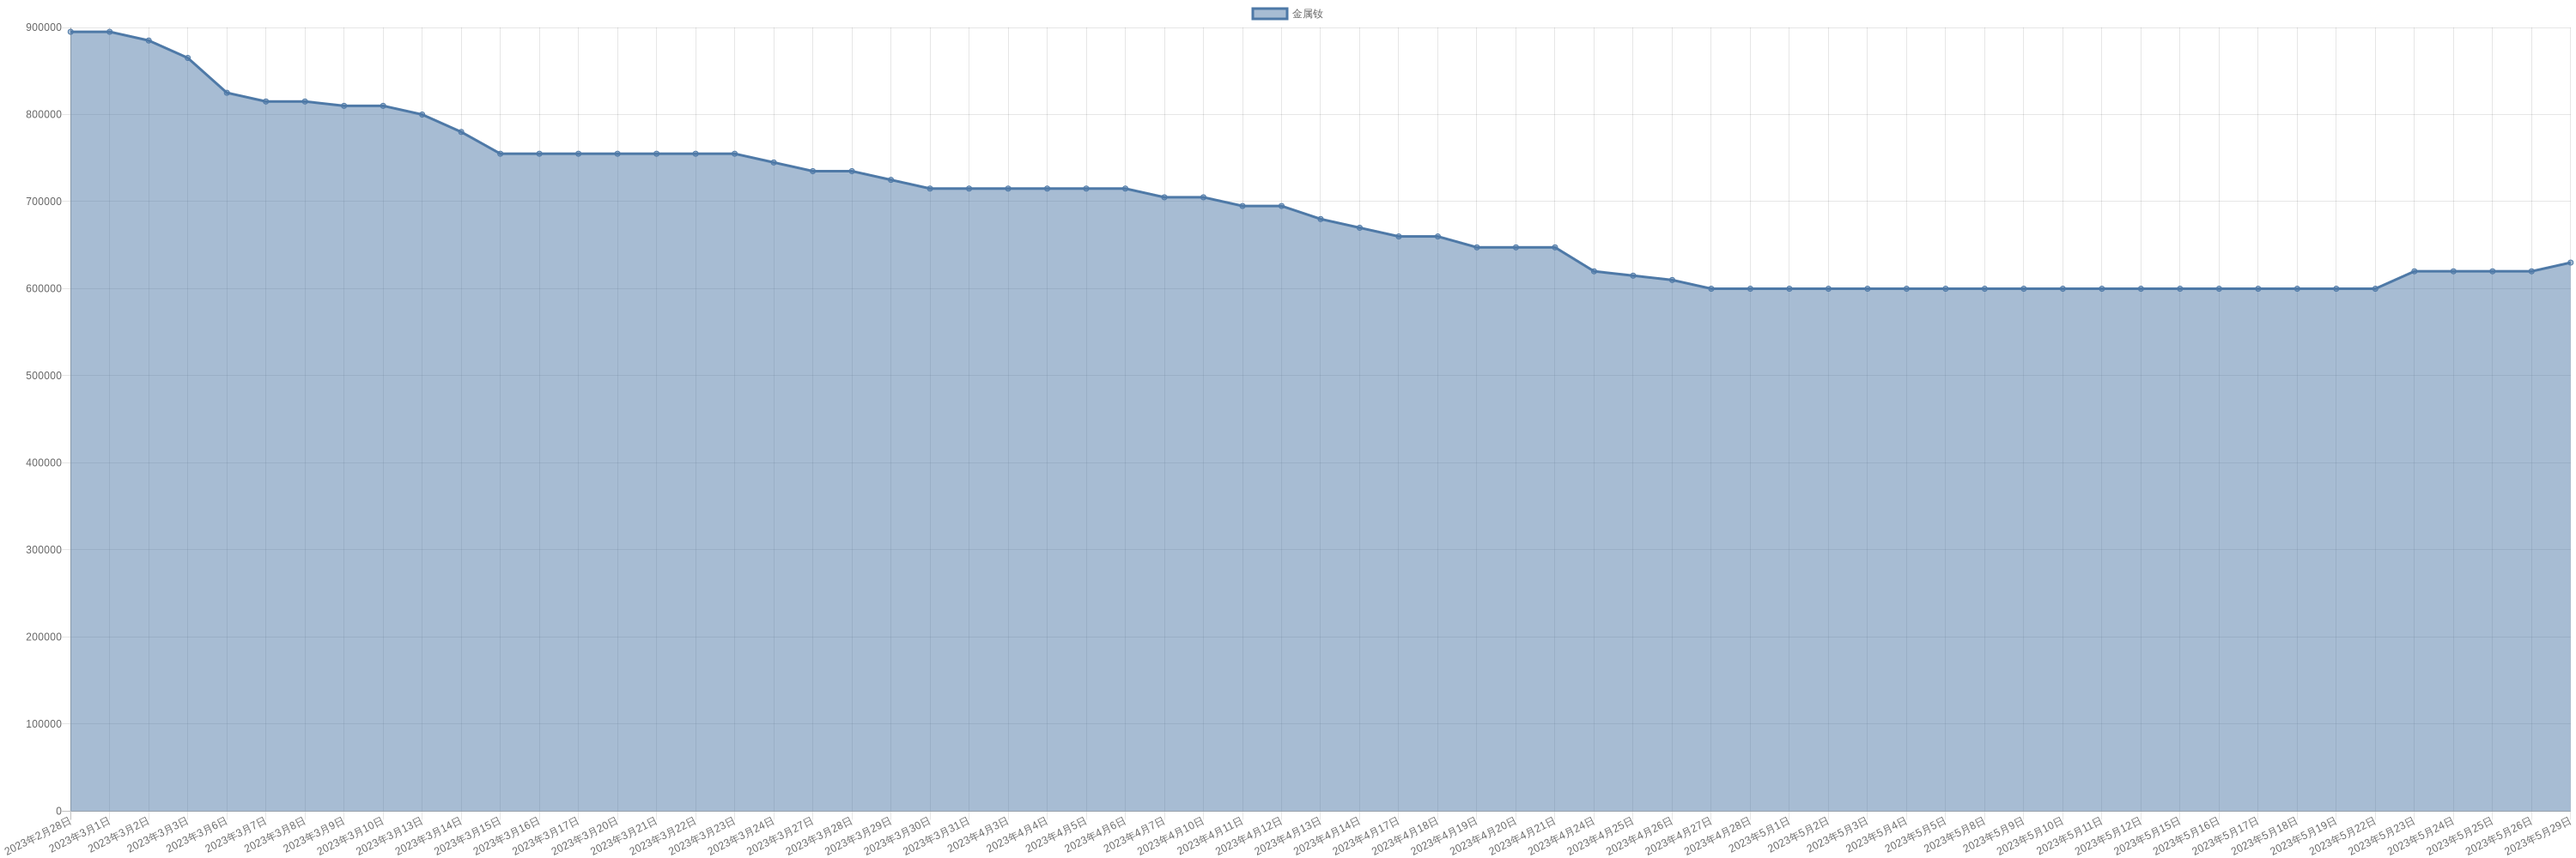
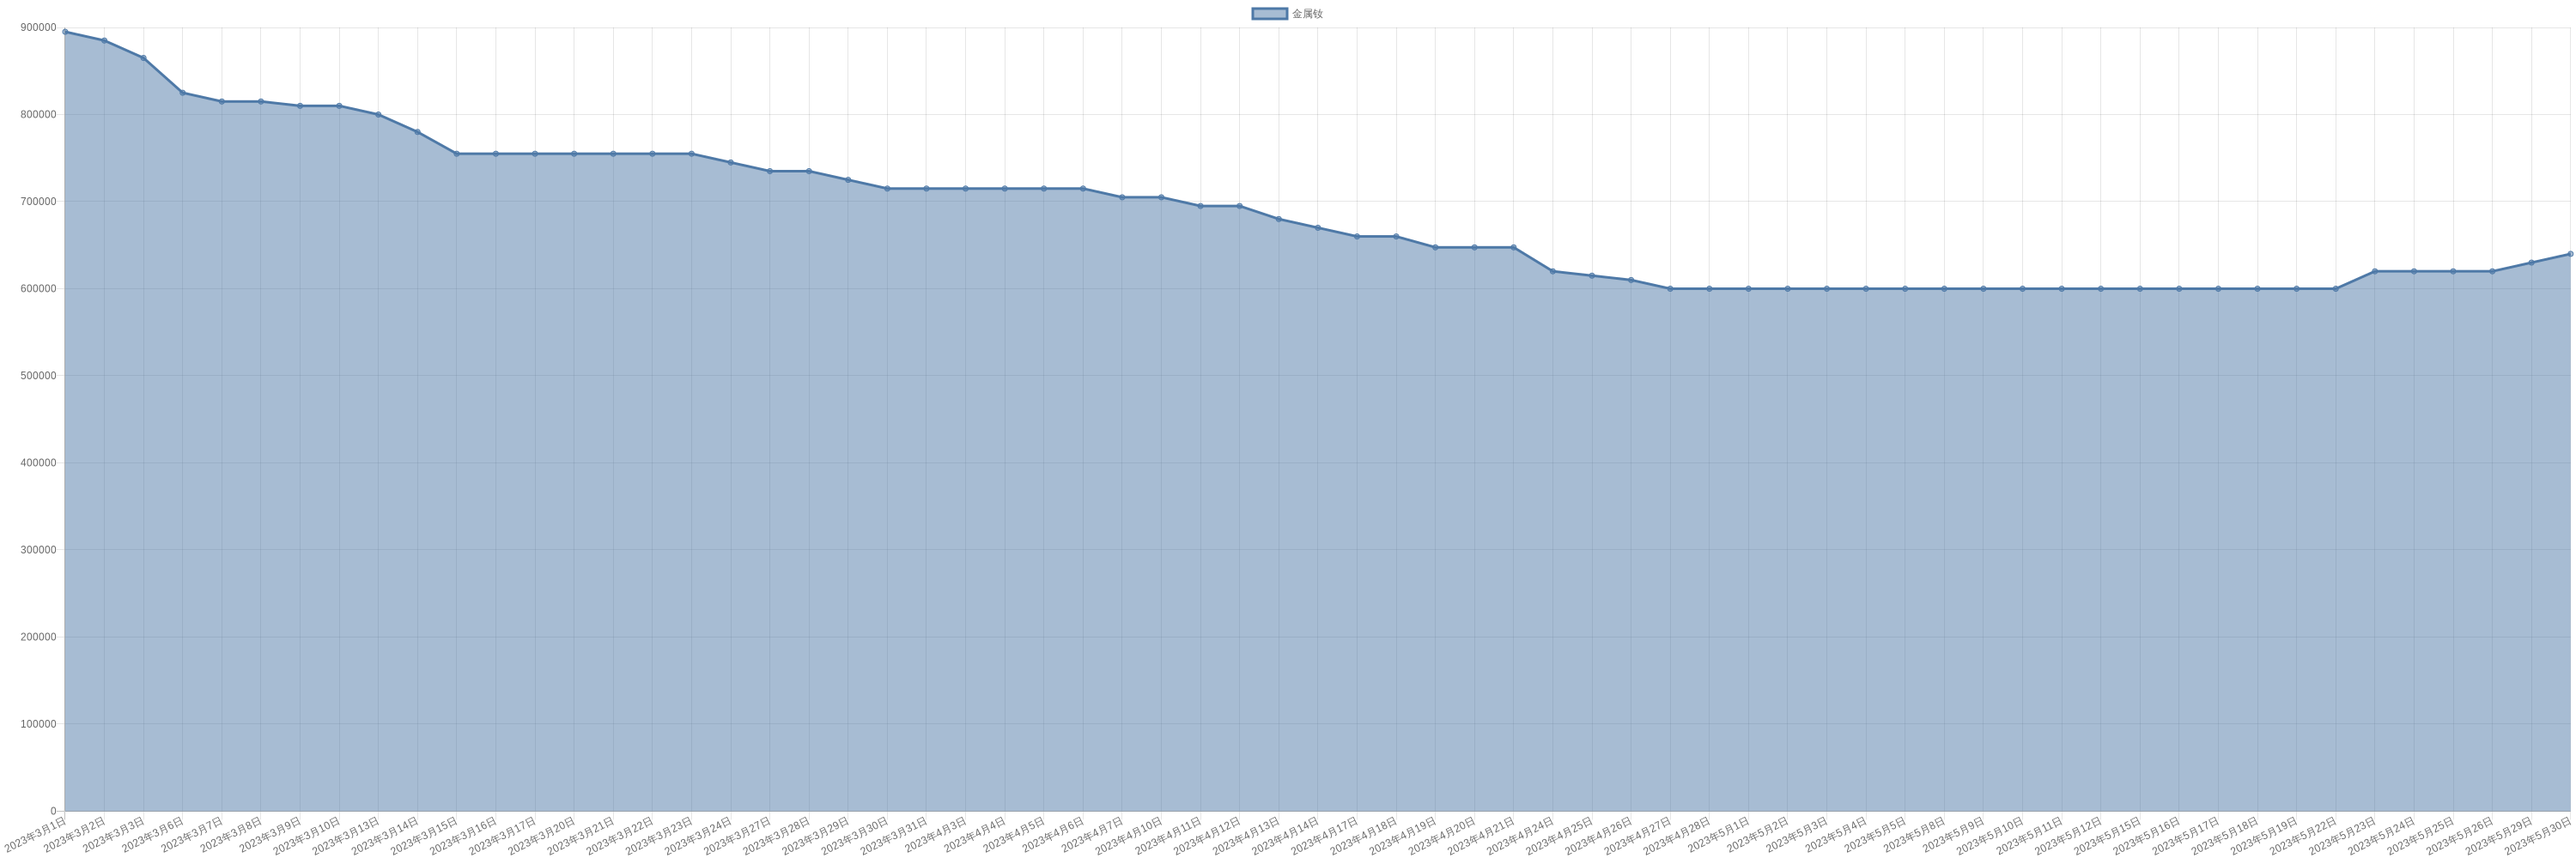
chore: sync commodity monitor

diff --git a/markdown/commodity/dysprosiumMetal.md b/markdown/commodity/dysprosiumMetal.md
@@ -8,6 +8,8 @@
 
 | 时间 | 价格 | 消息正文 |
 |:--:|:--:|:--:|
+|2023年5月30日|2680000|5月30日金属镝为2680000.00|
+|2023年5月29日|2680000|5月29日金属镝为2680000.00|
 |2023年5月26日|2680000|5月26日金属镝为2680000.00|
 |2023年5月25日|2680000|5月25日金属镝为2680000.00|
 |2023年5月24日|2680000|5月24日金属镝为2680000.00|

diff --git a/markdown/commodity/crudeOil.md b/markdown/commodity/crudeOil.md
@@ -2,6 +2,8 @@
 
 | 时间 | 价格 | 消息正文 |
 |:--:|:--:|:--:|
+|2023年5月30日Brent|77.1|5月30日Brent原油为77.10|
+|2023年5月30日WTI|72.67|5月30日WTI原油为72.67|
 |2023年5月29日Brent|76.98|5月29日Brent原油为76.98|
 |2023年5月29日WTI|72.67|5月29日WTI原油为72.67|
 |2023年5月26日Brent|76.18|5月26日Brent原油为76.18|

diff --git a/markdown/commodity/praseodymiumNeodymiumOxide.md b/markdown/commodity/praseodymiumNeodymiumOxide.md
@@ -8,6 +8,7 @@
 
 | 时间 | 价格 | 消息正文 |
 |:--:|:--:|:--:|
+|2023年5月30日|507500|5月30日镨钕氧化物为507500.00|
 |2023年5月29日|502500|5月29日镨钕氧化物为502500.00|
 |2023年5月26日|487500|5月26日镨钕氧化物为487500.00|
 |2023年5月25日|482500|5月25日镨钕氧化物为482500.00|

diff --git a/markdown/commodity/dyFeAlloy.md b/markdown/commodity/dyFeAlloy.md
@@ -8,6 +8,7 @@
 
 | 时间 | 价格 | 消息正文 |
 |:--:|:--:|:--:|
+|2023年5月30日|2080000|5月30日镝铁合金为2080000.00|
 |2023年5月29日|2080000|5月29日镝铁合金为2080000.00|
 |2023年5月26日|2080000|5月26日镝铁合金为2080000.00|
 |2023年5月25日|2055000|5月25日镝铁合金为2055000.00|

diff --git a/markdown/commodity/lithiumHydroxide.md b/markdown/commodity/lithiumHydroxide.md
@@ -8,6 +8,7 @@
 
 | 时间 | 价格 | 消息正文 |
 |:--:|:--:|:--:|
+|2023年5月30日|305000|5月30日氢氧化锂为305000.00|
 |2023年5月29日|305000|5月29日氢氧化锂为305000.00|
 |2023年5月26日|305000|5月26日氢氧化锂为305000.00|
 |2023年5月25日|305000|5月25日氢氧化锂为305000.00|

diff --git a/markdown/commodity/praseodymiumNeodymiumAlloy.md b/markdown/commodity/praseodymiumNeodymiumAlloy.md
@@ -8,6 +8,7 @@
 
 | 时间 | 价格 | 消息正文 |
 |:--:|:--:|:--:|
+|2023年5月30日|615000|5月30日镨钕合金为615000.00|
 |2023年5月29日|600000|5月29日镨钕合金为600000.00|
 |2023年5月26日|582500|5月26日镨钕合金为582500.00|
 |2023年5月25日|577500|5月25日镨钕合金为577500.00|

diff --git a/markdown/commodity/dysprosiumOxide.md b/markdown/commodity/dysprosiumOxide.md
@@ -8,6 +8,7 @@
 
 | 时间 | 价格 | 消息正文 |
 |:--:|:--:|:--:|
+|2023年5月30日|2130000|5月30日氧化镝为2130000.00|
 |2023年5月29日|2130000|5月29日氧化镝为2130000.00|
 |2023年5月26日|2130000|5月26日氧化镝为2130000.00|
 |2023年5月25日|2130000|5月25日氧化镝为2130000.00|

diff --git a/markdown/commodity/liquefiedNaturalGas.md b/markdown/commodity/liquefiedNaturalGas.md
@@ -8,6 +8,7 @@
 
 | 时间 | 价格 | 消息正文 |
 |:--:|:--:|:--:|
+|2023年5月30日|3728|5月30日液化天然气为3728.00|
 |2023年5月29日|3820|5月29日液化天然气为3820.00|
 |2023年5月26日|3728|5月26日液化天然气为3728.00|
 |2023年5月25日|3688|5月25日液化天然气为3688.00|

diff --git a/markdown/commodity/lithiumIronPhosphate.md b/markdown/commodity/lithiumIronPhosphate.md
@@ -8,6 +8,7 @@
 
 | 时间 | 价格 | 消息正文 |
 |:--:|:--:|:--:|
+|2023年5月30日|92000|5月30日磷酸铁锂为92000.00|
 |2023年5月29日|92000|5月29日磷酸铁锂为92000.00|
 |2023年5月26日|90000|5月26日磷酸铁锂为90000.00|
 |2023年5月25日|80000|5月25日磷酸铁锂为80000.00|

diff --git a/markdown/commodity/neodymium.md b/markdown/commodity/neodymium.md
@@ -8,6 +8,7 @@
 
 | 时间 | 价格 | 消息正文 |
 |:--:|:--:|:--:|
+|2023年5月30日|640000|5月30日金属钕为640000.00|
 |2023年5月29日|630000|5月29日金属钕为630000.00|
 |2023年5月26日|620000|5月26日金属钕为620000.00|
 |2023年5月25日|620000|5月25日金属钕为620000.00|

diff --git a/markdown/commodity/neodymiumOxide.md b/markdown/commodity/neodymiumOxide.md
@@ -8,6 +8,7 @@
 
 | 时间 | 价格 | 消息正文 |
 |:--:|:--:|:--:|
+|2023年5月30日|520000|5月30日氧化钕为520000.00|
 |2023年5月29日|500000|5月29日氧化钕为500000.00|
 |2023年5月26日|487500|5月26日氧化钕为487500.00|
 |2023年5月25日|482500|5月25日氧化钕为482500.00|

diff --git a/markdown/commodity/praseodymium.md b/markdown/commodity/praseodymium.md
@@ -8,6 +8,7 @@
 
 | 时间 | 价格 | 消息正文 |
 |:--:|:--:|:--:|
+|2023年5月30日|635000|5月30日金属镨为635000.00|
 |2023年5月29日|635000|5月29日金属镨为635000.00|
 |2023年5月26日|625000|5月26日金属镨为625000.00|
 |2023年5月25日|625000|5月25日金属镨为625000.00|
